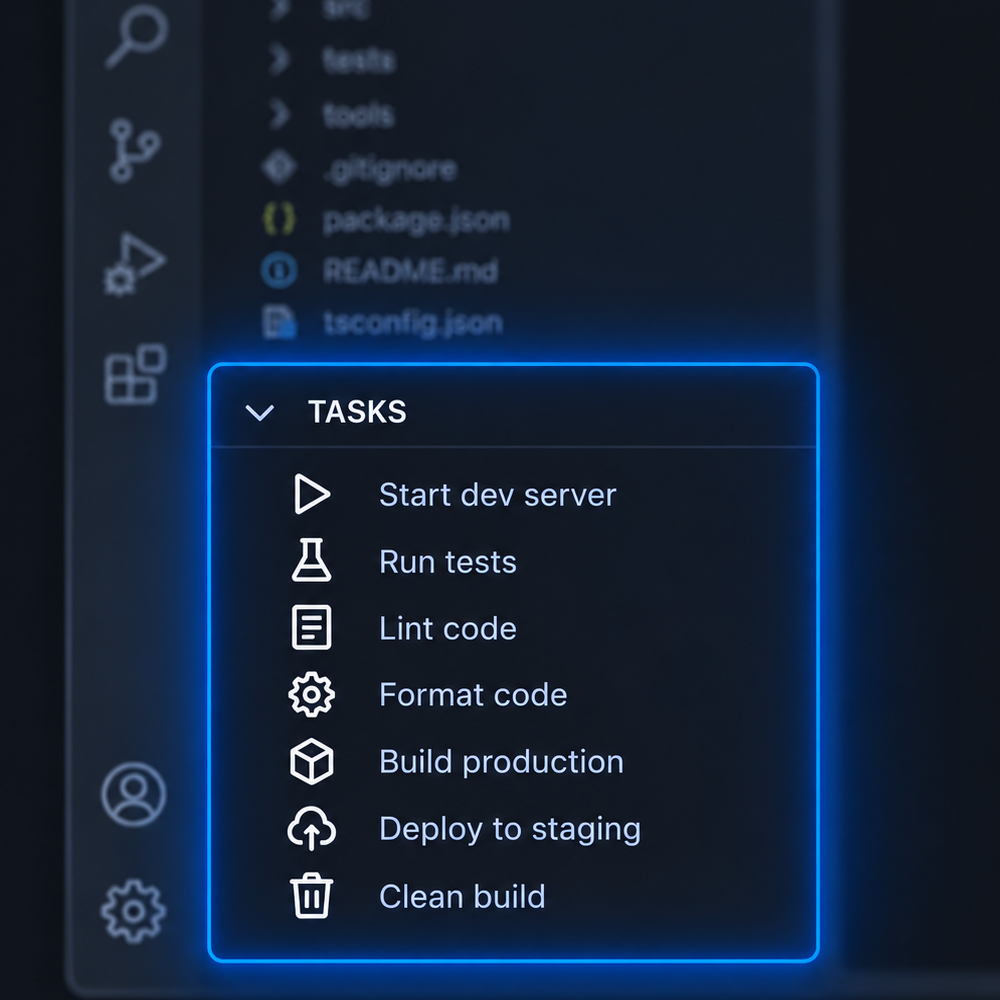
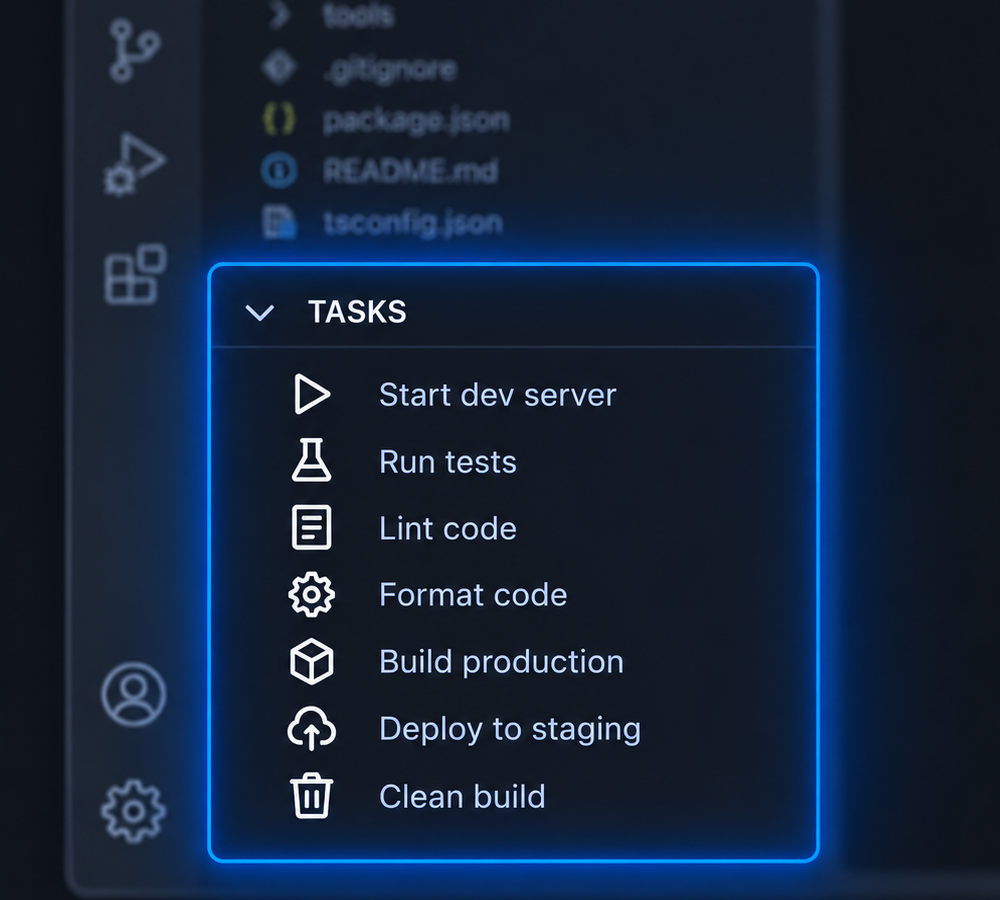
Adjust promo image

Changed region(s): [[0.093, 0.0, 0.868, 0.9644], [0.093, 0.7156, 0.186, 0.9644], [0.093, 0.0, 0.186, 0.0933]]

diff --git a/CHANGELOG.md b/CHANGELOG.md
@@ -1,5 +1,9 @@
 # Changelog
 
+## 1.0.1
+
+- Add table of contents to README for easier navigation.
+
 ## 1.0.0
 
 - Require task labels to be unique within each workspace scope, reporting and displaying duplicated labels as disabled warning rows.
